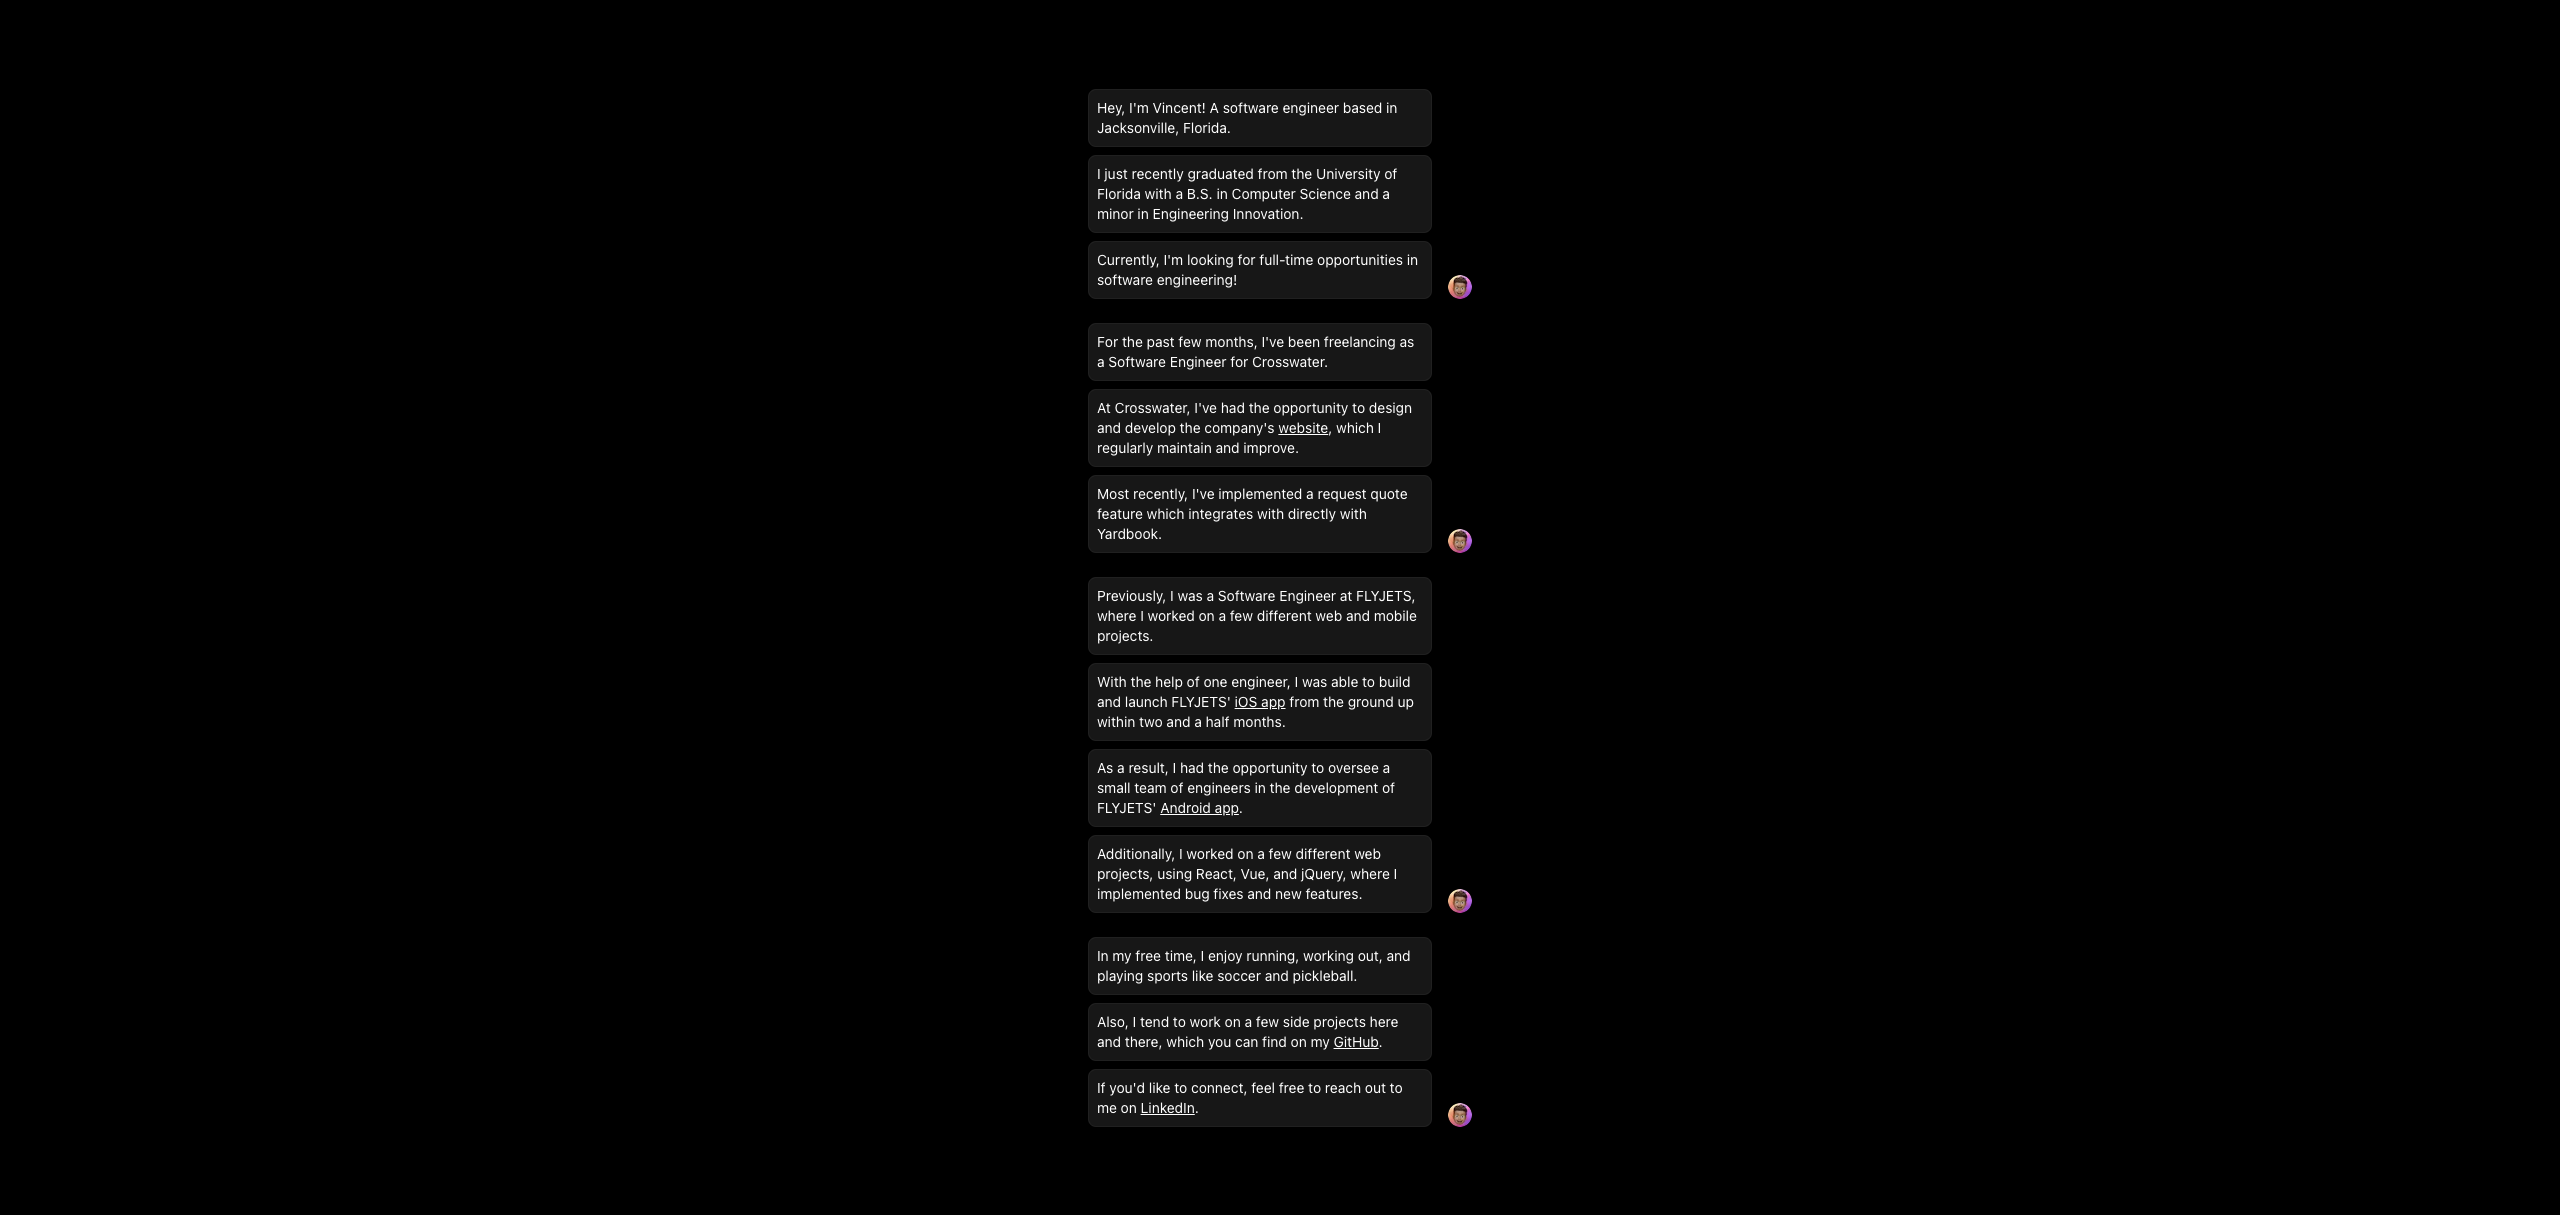
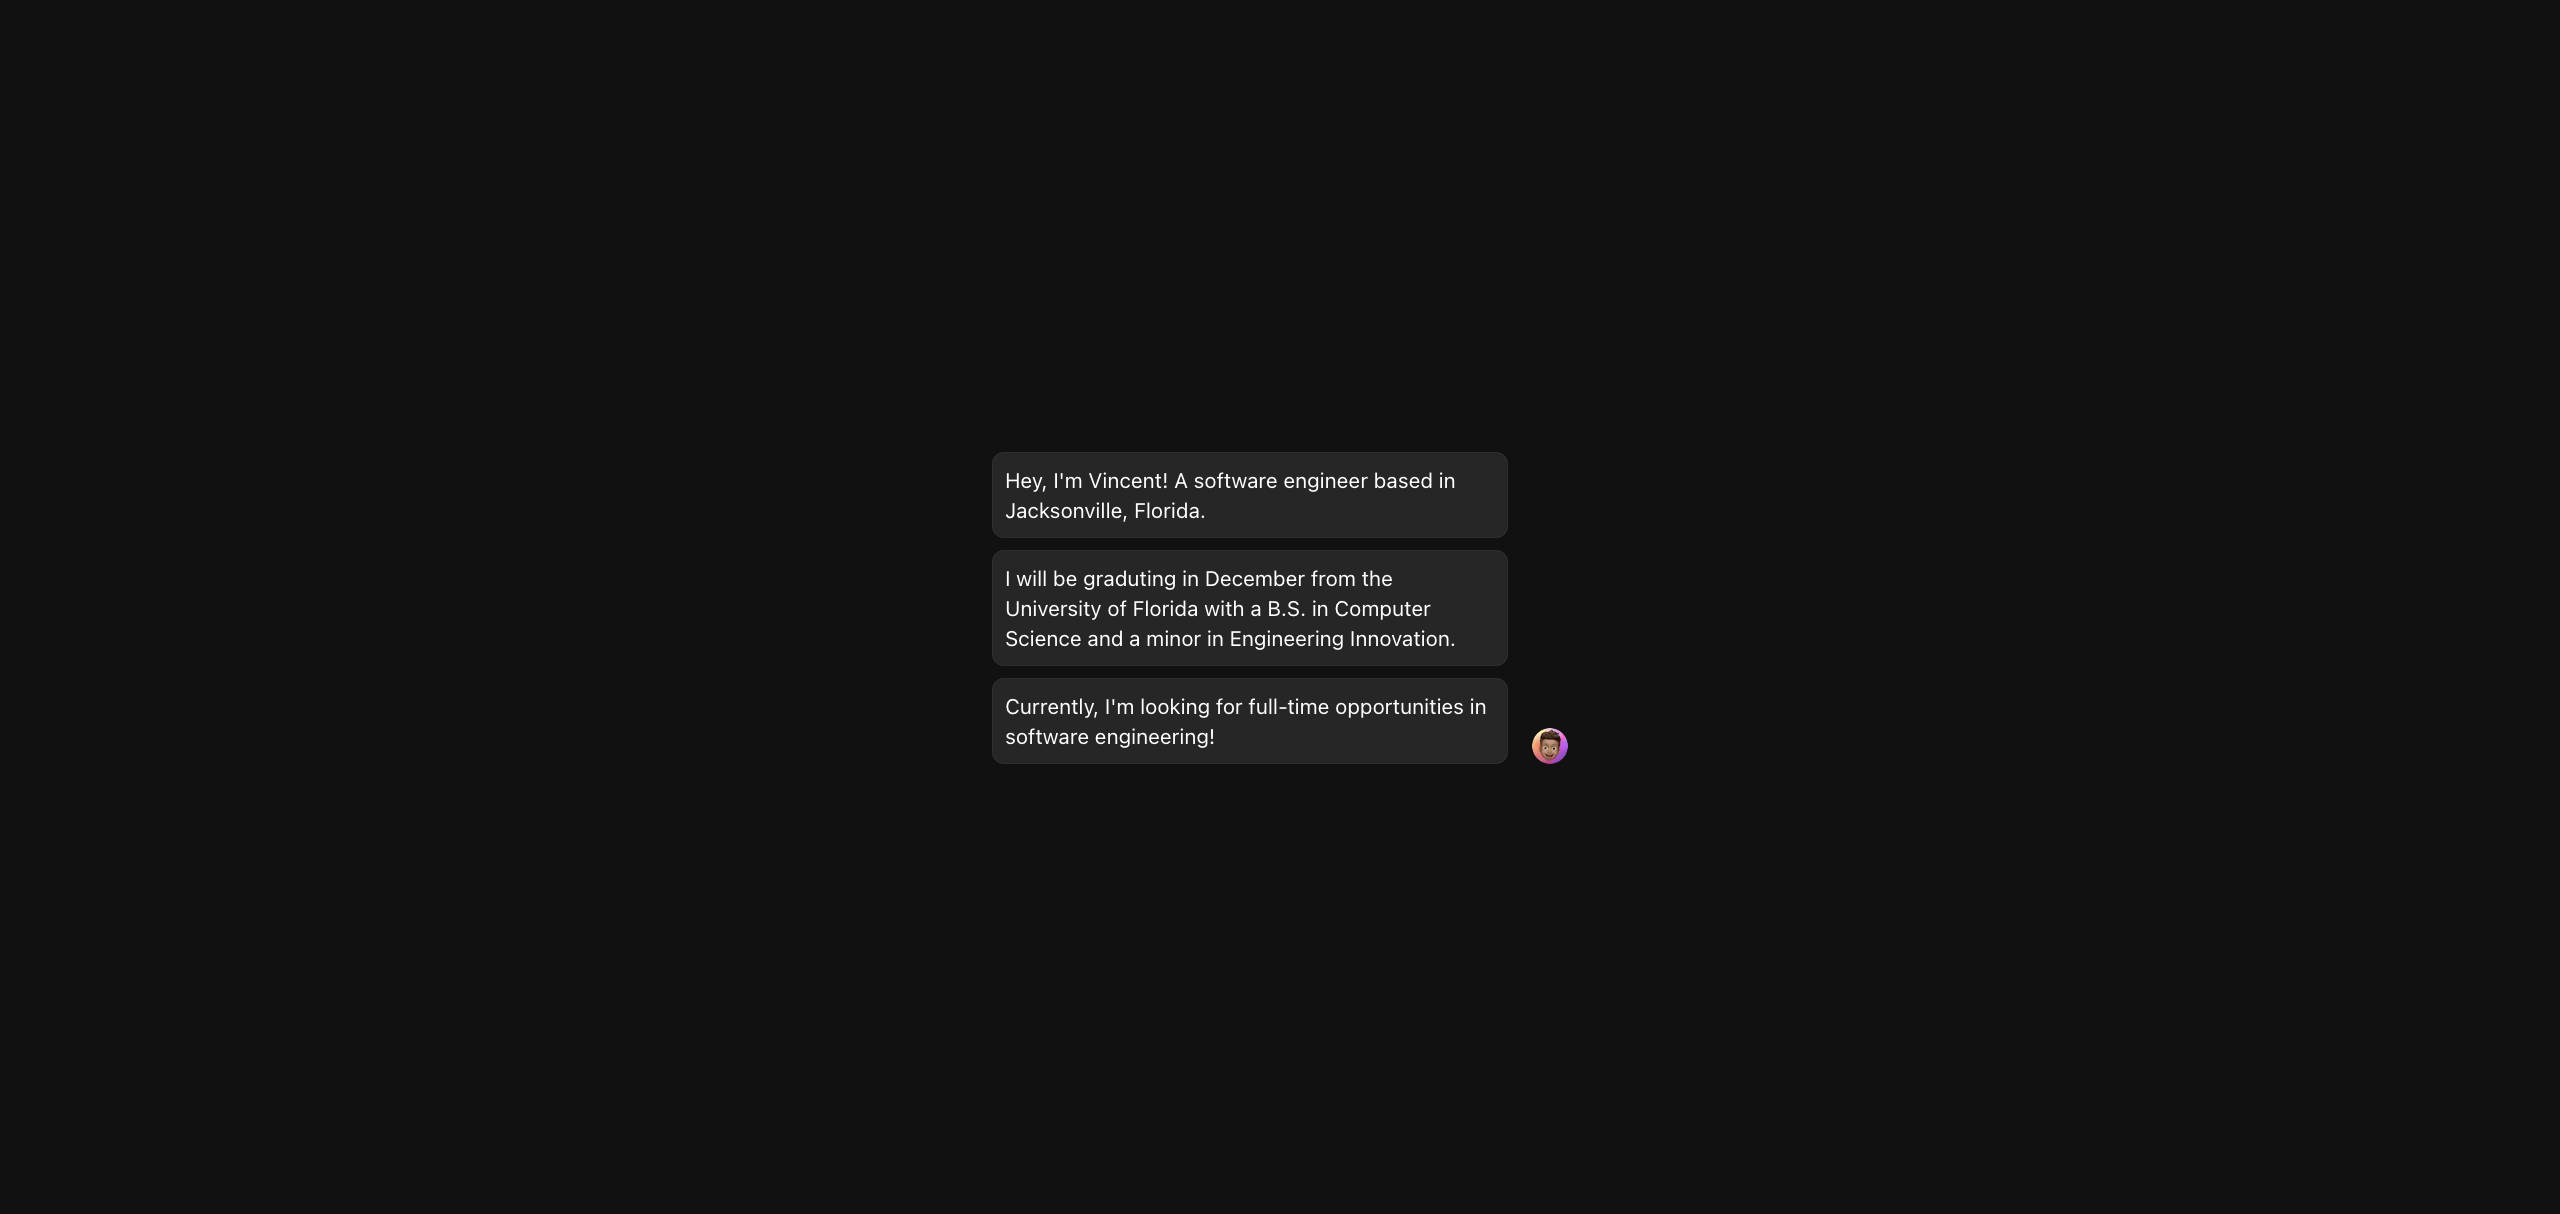
Updated colors and content.

diff --git a/src/app/page.tsx b/src/app/page.tsx
@@ -5,9 +5,7 @@ import { Thread, Message } from "@/components";
 export default function Index() {
 	return (
 		<main className="min-h-screen flex flex-1 items-center px-4 py-8">
-			{/* Container */}
 			<div className="mx-auto w-96 space-y-6">
-				{/* Thread */}
 				<Thread>
 					<Message>
 						Hey, I&apos;m Vincent! A software engineer based in Jacksonville,
@@ -17,16 +15,11 @@ export default function Index() {
 						I will be graduting in December from the University of Florida with
 						a B.S. in Computer Science and a minor in Engineering Innovation.
 					</Message>
-					{/* <Message>
-						I just recently graduated from the University of Florida with a B.S.
-						in Computer Science and a minor in Engineering Innovation.
-					</Message> */}
 					<Message>
 						Currently, I&apos;m looking for full-time opportunities in software
 						engineering!
 					</Message>
 				</Thread>
-				{/* Thread */}
 				<Thread>
 					<Message>
 						For the past few months, I&apos;ve been freelancing as a Software
@@ -36,7 +29,7 @@ export default function Index() {
 						At Crosswater, I&apos;ve had the opportunity to design and develop
 						the company&apos;s{" "}
 						<Link
-							className="underline"
+							className="underline underline-offset-2"
 							href="https://www.crosswaterturf.com/"
 							target="_blank"
 						>
@@ -49,7 +42,6 @@ export default function Index() {
 						integrates directly with Yardbook.
 					</Message>
 				</Thread>
-				{/* Thread */}
 				<Thread>
 					<Message>
 						Previously, I was a Software Engineer at FLYJETS, where I worked on
@@ -59,7 +51,7 @@ export default function Index() {
 						With the help of one engineer, I was able to build and launch
 						FLYJETS&apos;{" "}
 						<Link
-							className="underline"
+							className="underline underline-offset-2"
 							href="https://apps.apple.com/us/app/flyjets/id1631026300"
 							target="_blank"
 						>
@@ -71,7 +63,7 @@ export default function Index() {
 						As a result, I had the opportunity to oversee a small team of
 						engineers in the development of FLYJETS&apos;{" "}
 						<Link
-							className="underline"
+							className="underline underline-offset-2"
 							href="https://play.google.com/store/apps/details?id=com.flyjets.flyjetsmobile"
 							target="_blank"
 						>
@@ -84,7 +76,6 @@ export default function Index() {
 						Vue, and jQuery, where I implemented bug fixes and new features.
 					</Message>
 				</Thread>
-				{/* Thread */}
 				<Thread>
 					<Message>
 						In my free time I enjoy running, working out, and playing sports
@@ -94,7 +85,7 @@ export default function Index() {
 						Also, I tend to work on a few side projects here and there, which
 						you can find on my{" "}
 						<Link
-							className="underline"
+							className="underline underline-offset-2"
 							href="https://github.com/FlemingVincent"
 							target="_blank"
 						>
@@ -105,7 +96,7 @@ export default function Index() {
 					<Message>
 						If you&apos;d like to connect, feel free to reach out to me on{" "}
 						<Link
-							className="underline"
+							className="underline underline-offset-2"
 							href="https://www.linkedin.com/in/vincentfleming/"
 							target="_blank"
 						>

diff --git a/src/components/Message.tsx b/src/components/Message.tsx
@@ -4,7 +4,7 @@ interface MessageProps {
 
 export function Message({ children }: MessageProps) {
 	return (
-		<div className="bg-neutral-100 dark:bg-neutral-900 rounded-lg p-2 text-sm border border-neutral-500/10">
+		<div className="bg-neutral-200 dark:bg-neutral-800 rounded-lg p-2 text-sm border border-neutral-500/10">
 			{children}
 		</div>
 	);

diff --git a/src/app/layout.tsx b/src/app/layout.tsx
@@ -48,8 +48,9 @@ export default function RootLayout({
 }) {
 	return (
 		<html
-			className="text-black bg-white dark:text-white dark:bg-black"
+			className="text-black dark:text-white bg-[#EEEEEE] dark:bg-[#111111]"
 			lang="en"
+			suppressHydrationWarning
 		>
 			<body className="antialiased">
 				{children}
